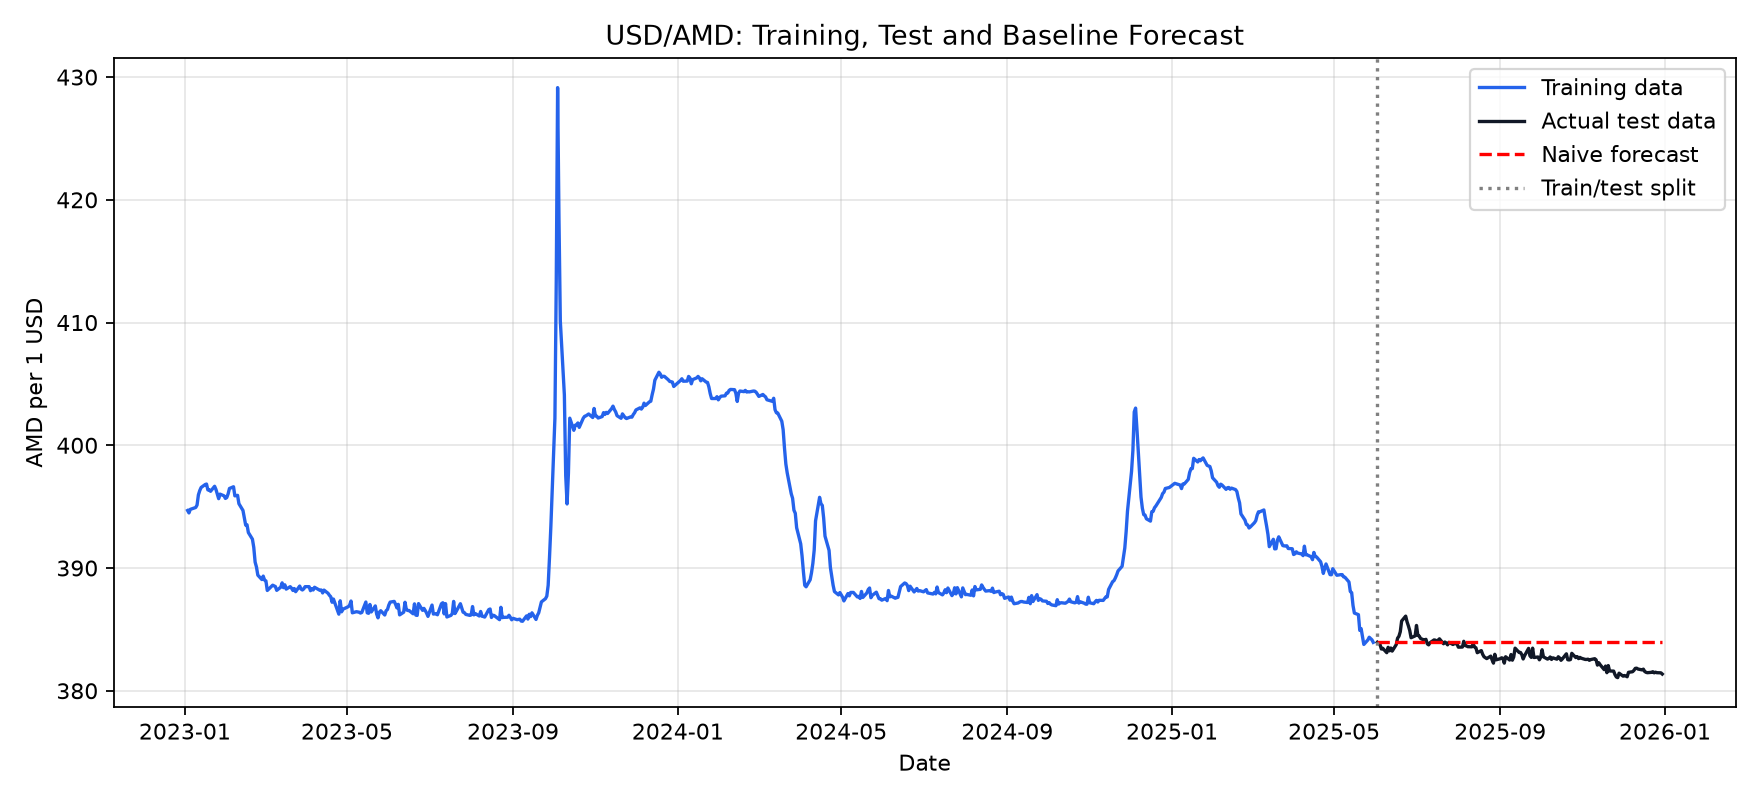
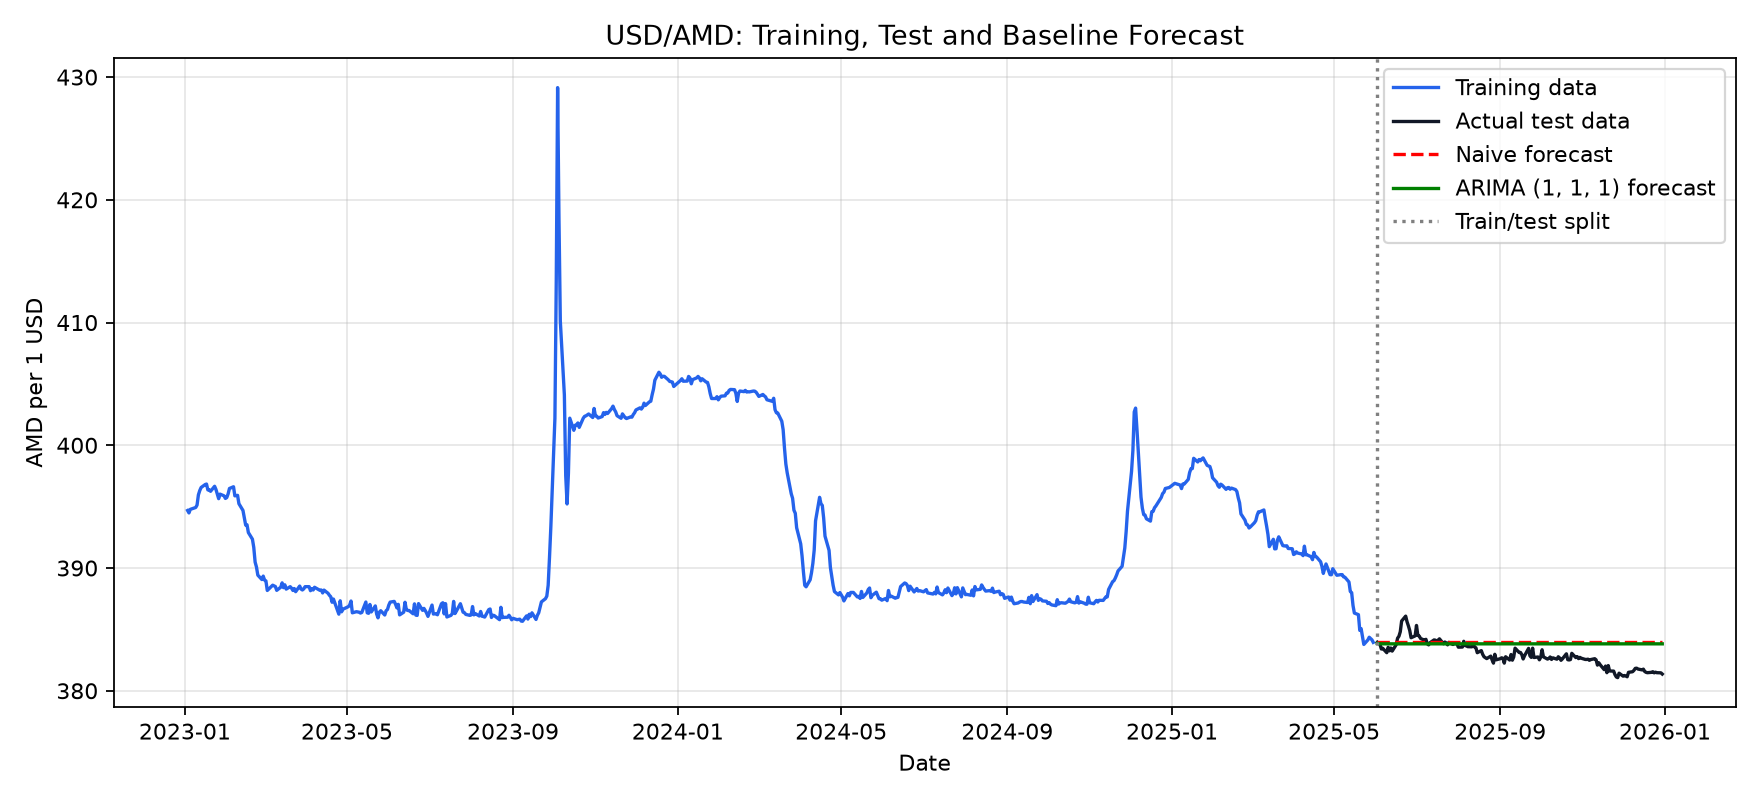
Add first ARIMA forecast

Changed region(s): [[0.7812, 0.0938, 0.9688, 0.3125], [0.7812, 0.7812, 0.9375, 0.8125]]

diff --git a/data_check.py b/data_check.py
@@ -1,6 +1,9 @@
 import pandas as pd
 import matplotlib.pyplot as plt
+from statsmodels.tsa.arima.model import ARIMA
 from pathlib import Path
+from statsmodels.tsa.stattools import adfuller
+
 
 project_dir = Path(__file__).resolve().parent
 
@@ -22,6 +25,28 @@ split_index = int(len(data) * 0.8)
 train = data.iloc[:split_index]
 test = data.iloc[split_index:].copy()
 
+train_values = train["usd_amd"].astype(float)
+
+adf_original = adfuller(train_values, maxlag=5, autolag=None)
+adf_difference = adfuller(train_values.diff().dropna(), maxlag=5, autolag=None)
+
+arima_order = (1, 1, 1)
+
+arima_model = ARIMA(train_values, order=arima_order)
+arima_fit = arima_model.fit()
+
+test["arima_forecast"] = arima_fit.forecast(steps=len(test)).to_numpy()
+
+arima_errors = test["usd_amd"] - test["arima_forecast"]
+arima_mae = arima_errors.abs().mean()
+arima_rmse = (arima_errors.pow(2).mean()) ** 0.5
+
+print("ARIMA", arima_order, "MAE՝", round(arima_mae, 3))
+print("ARIMA", arima_order, "RMSE՝", round(arima_rmse, 3))
+
+print("Սկզբնական շարքի ADF p-value՝", round(adf_original[1], 4))
+print("Առաջին տարբերության ADF p-value՝", round(adf_difference[1], 4))
+
 last_train_value = train["usd_amd"].iloc[-1]
 test["naive_forecast"] = last_train_value
 errors = test["usd_amd"] - test["naive_forecast"]
@@ -41,6 +66,12 @@ plt.figure(figsize=(11, 5))
 plt.plot(train["date"], train["usd_amd"], label="Training data", color="#2563eb")
 plt.plot(test["date"], test["usd_amd"], label="Actual test data", color="#111827")
 plt.plot(test["date"], test["naive_forecast"], label="Naive forecast", color="red", linestyle="--")
+plt.plot(
+    test["date"],
+    test["arima_forecast"],
+    label="ARIMA (1, 1, 1) forecast",
+    color="green",
+)
 plt.axvline(test["date"].min(), color="gray", linestyle=":", label="Train/test split")
 plt.title("USD/AMD: Training, Test and Baseline Forecast")
 plt.xlabel("Date")
